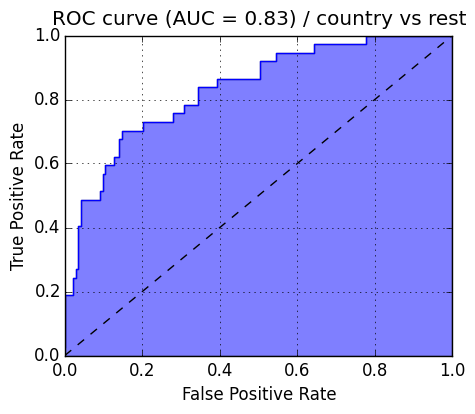
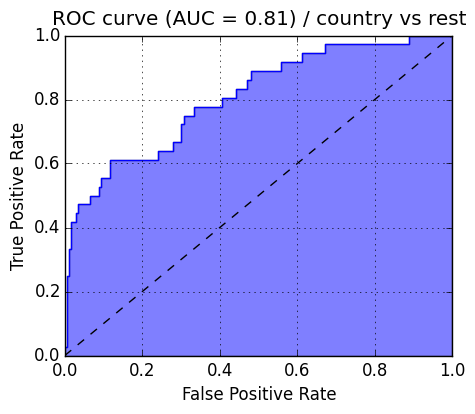
added a few more genres to the model

Changed region(s): [[0.1179, 0.087, 0.7074, 0.8406], [0.7663, 0.087, 0.8842, 0.1159], [0.5895, 0.029, 0.6189, 0.058]]

diff --git a/Test Work/utils.py b/Test Work/utils.py
@@ -24,8 +24,8 @@ for d in [DATA_DIR, CHART_DIR]:
 # Put your directory to the different music genres here
 GENRE_DIR = "C:/Users/Henry/Documents/AxonRadioMiscStorage/genres/"
 #GENRE_LIST = ["blues", "classical", "country", "disco", "hiphop", "jazz", "metal", "pop", "reggae", "rock"]
-#GENRE_LIST = ["blues", "classical", "country", "hiphop", "jazz", "metal", "pop", "rock"]
-GENRE_LIST = ["classical", "jazz", "country", "pop", "rock", "metal"]
+GENRE_LIST = ["blues", "classical", "country", "disco", "jazz", "pop", "rock", "metal"]
+#GENRE_LIST = ["classical", "jazz", "country", "pop", "rock", "metal"]
 
 # Put your directory to the test dir here
 TEST_DIR = "C:/Users/Henry/Documents/AxonRadioMiscStorage/genres/"

diff --git a/Test Work/ceps_based_classifier.py b/Test Work/ceps_based_classifier.py
@@ -114,6 +114,10 @@ def create_model():
 
 if __name__ == "__main__":
     X, y = read_ceps(genre_list)
+    np.set_printoptions(threshold='nan')
+    print np.isnan(X).any()
+    X = np.nan_to_num(X)
+    print np.isnan(X).any()
 
     train_avg, test_avg, cms = train_model(
         create_model, X, y, "Log Reg CEPS", plot=True)
